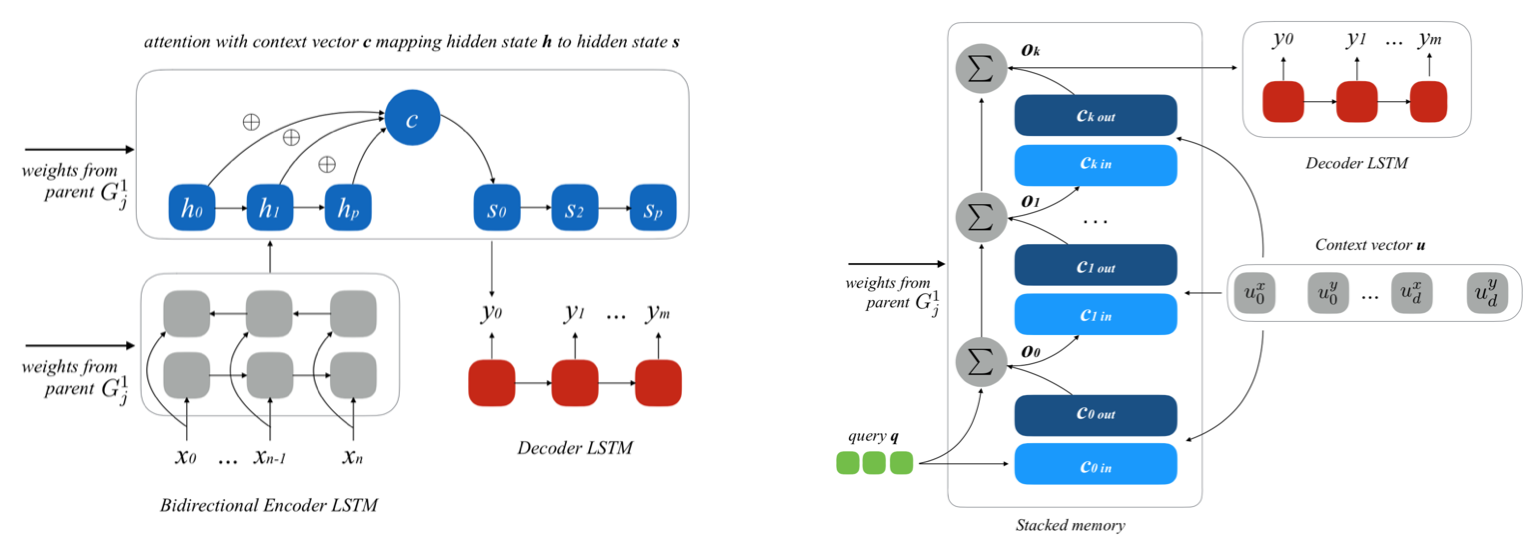
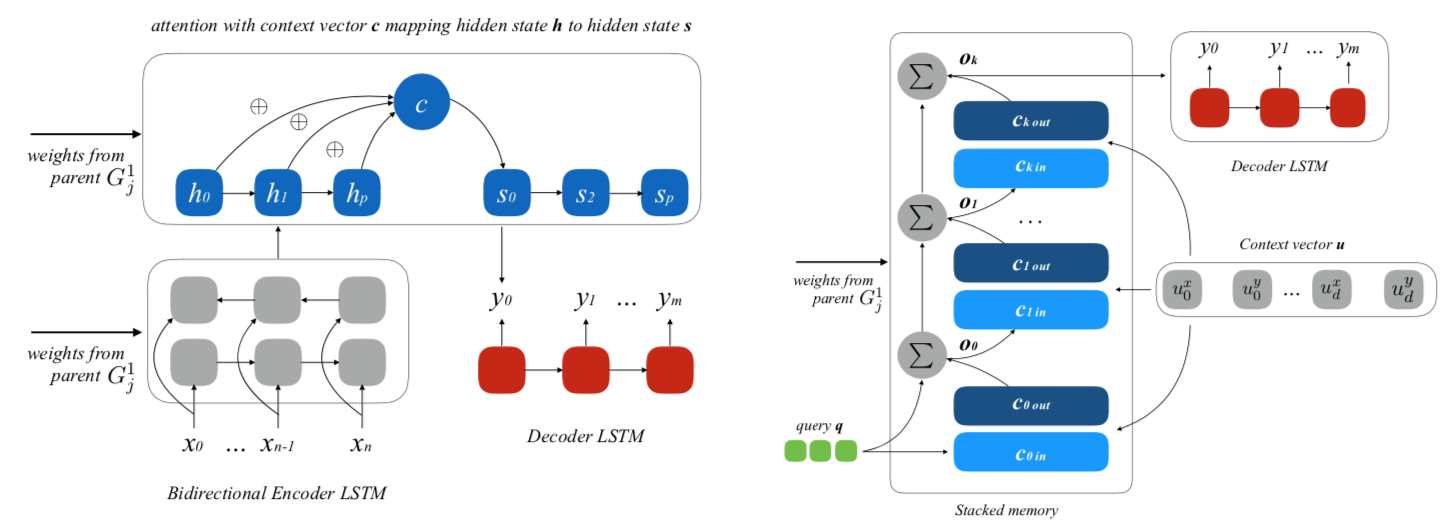
update

diff --git a/README.md b/README.md
@@ -18,7 +18,7 @@ lexico-syntactic patterns, consistently outperforming flat baselines and previou
 A particular focus with this paper is the comparison of the hierarchical setup for sequence-to-sequence and 
 memory-to-sequence models, see:
 
-<img src="/img/models.png" alt="drawing" width="700"/>
+<img src="/img/models.png" alt="drawing" width="600"/>
 
 # Code
 
